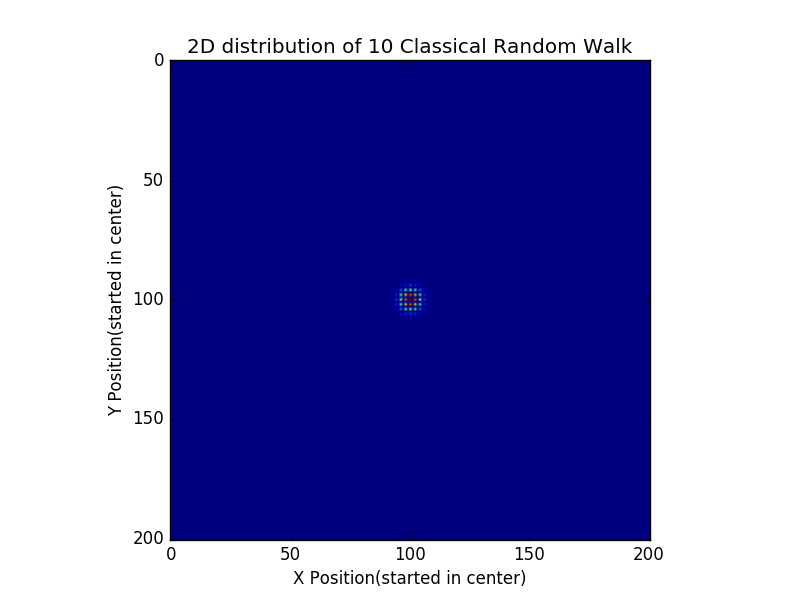
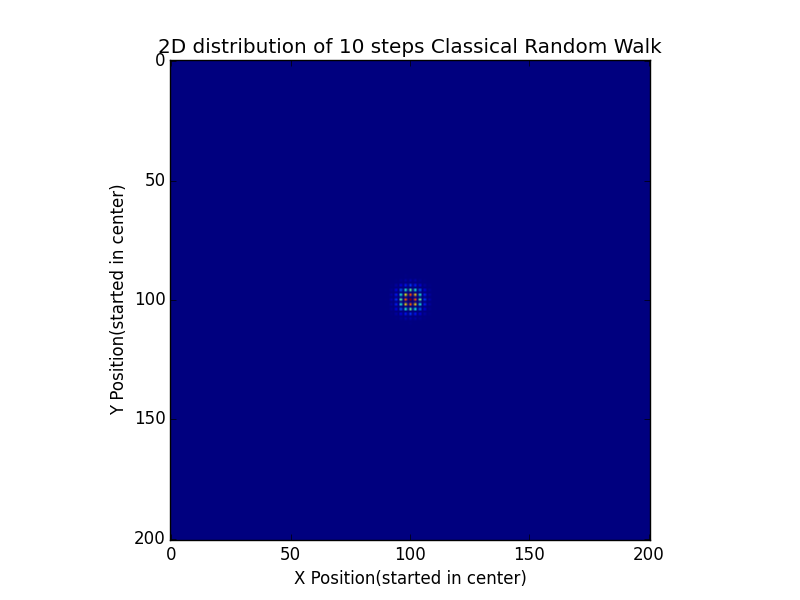
add a classical random walk matrix release

diff --git a/classicalRWMat.py b/classicalRWMat.py
@@ -1,0 +1,54 @@
+#!/usr/bin/env python
+#-*- coding: utf-8 -*-
+
+__author__ = 'levitan'
+
+"""
+This is a matrix release for 2D classic random walk simulation.
+经典随机游走的基本过程：在一个初始位置，投一次coin（随机选择），根据coin的结果，
+选择向某一个方向走一步，然后再投一次coin，周而复始。
+classicalRanMun():产生一个随机coin
+classcalWalkerPosition():walker的初始位置，设为(0,0)
+classicalWalk():根据参数walkNum随机游走walkNum步，返回最后位置walkerPosition
+classicalRWDistr():重复satNum次随机游走，得到walkerPosition的统计分布
+Plot2D():画图函数，画出2D的经典随机游走位置概率分布
+"""
+
+from numpy import *
+import random
+from matplotlib import pyplot as plt
+
+def classicalRanNum():
+    return mat([[random.choice([1,-1])],[random.choice([1,-1])]],int)
+
+def classicalWalkerPosition():
+    return mat([[0],[0]],int)
+
+def classicalWalk(walkNum):
+    walkerPosition = classicalWalkerPosition()
+    for i in range(0, walkNum):
+        coin= classicalRanNum()
+        walkerPosition+=coin
+    return walkerPosition
+
+def classicalRWDistr(walkNum, matrixNum,satNum):
+    walkerCount = zeros([2 *matrixNum + 1, 2 * matrixNum + 1])
+    for i in range(0, satNum):
+        walker = classicalWalk(walkNum)
+        walkerCount[int(walker[0])+matrixNum][int(walker[1])+matrixNum] += float(1.0 / satNum)
+    return walkerCount
+
+def Plot2D(classcialWalker,steps):
+    plt.figure(1)
+    ax1=plt.subplot(111)
+    plt.sca(ax1)
+    plt.title('2D distribution of %s steps Classical Random Walk' %steps)
+    plt.xlabel('X Position(started in center)')
+    plt.ylabel('Y Position(started in center)')
+    plt.imshow(classcialWalker)
+    plt.savefig('CRW_'+str(steps)+'.png')
+    plt.close()
+
+#for i in range(1,2):
+#    classicalWalker=classicalRWDistr(i*10,100,100000)
+#    Plot2D(classicalWalker,i*10)

diff --git a/quantumRW.py b/quantumRW.py
@@ -3,10 +3,7 @@
 
 __author__ = 'levitan'
 
-import math
 from numpy import *
-import numpy as np
-import random
 from matplotlib import pyplot as plt
 import copy
 
